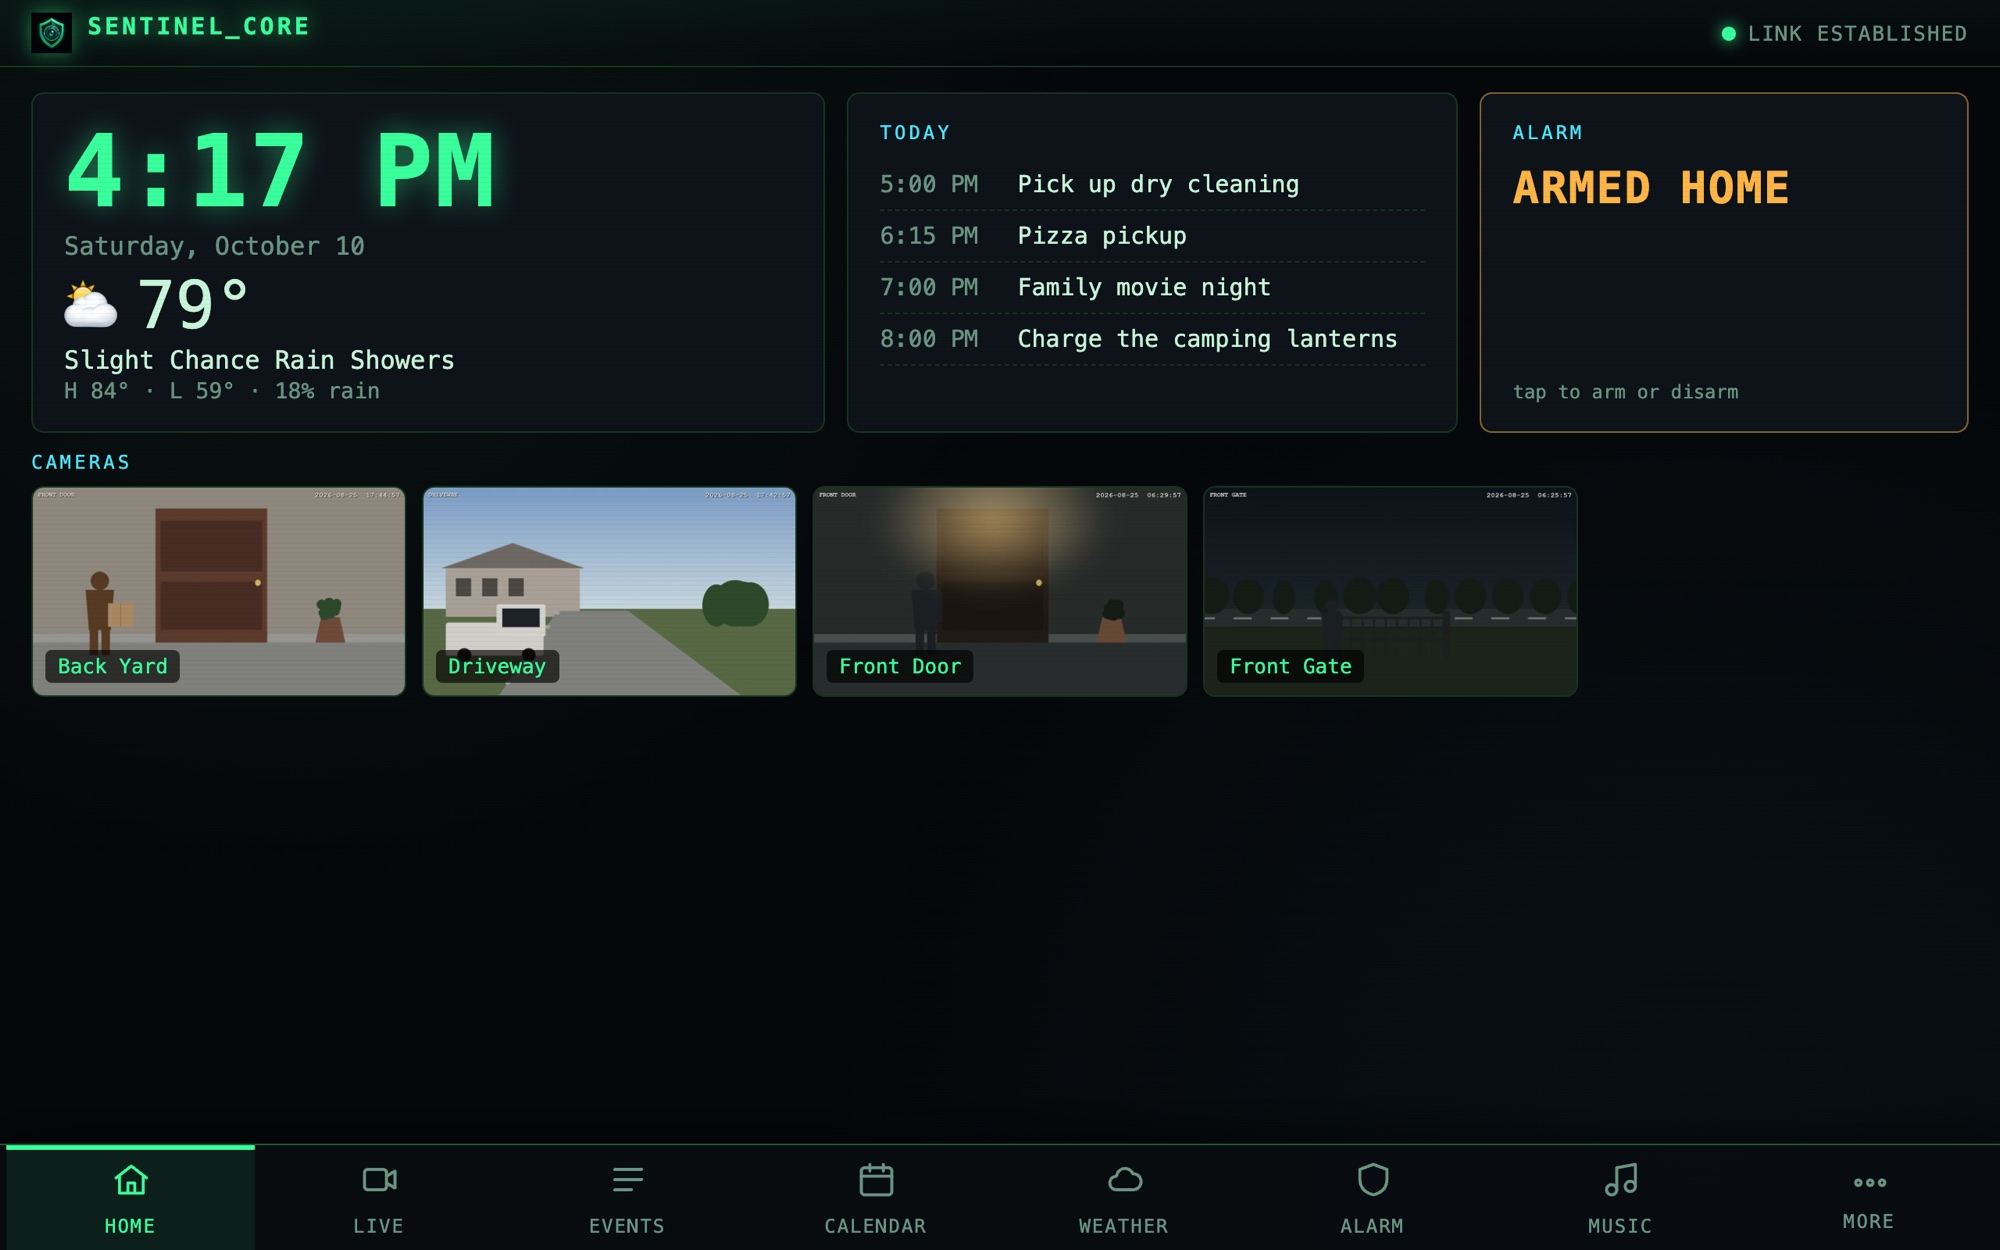
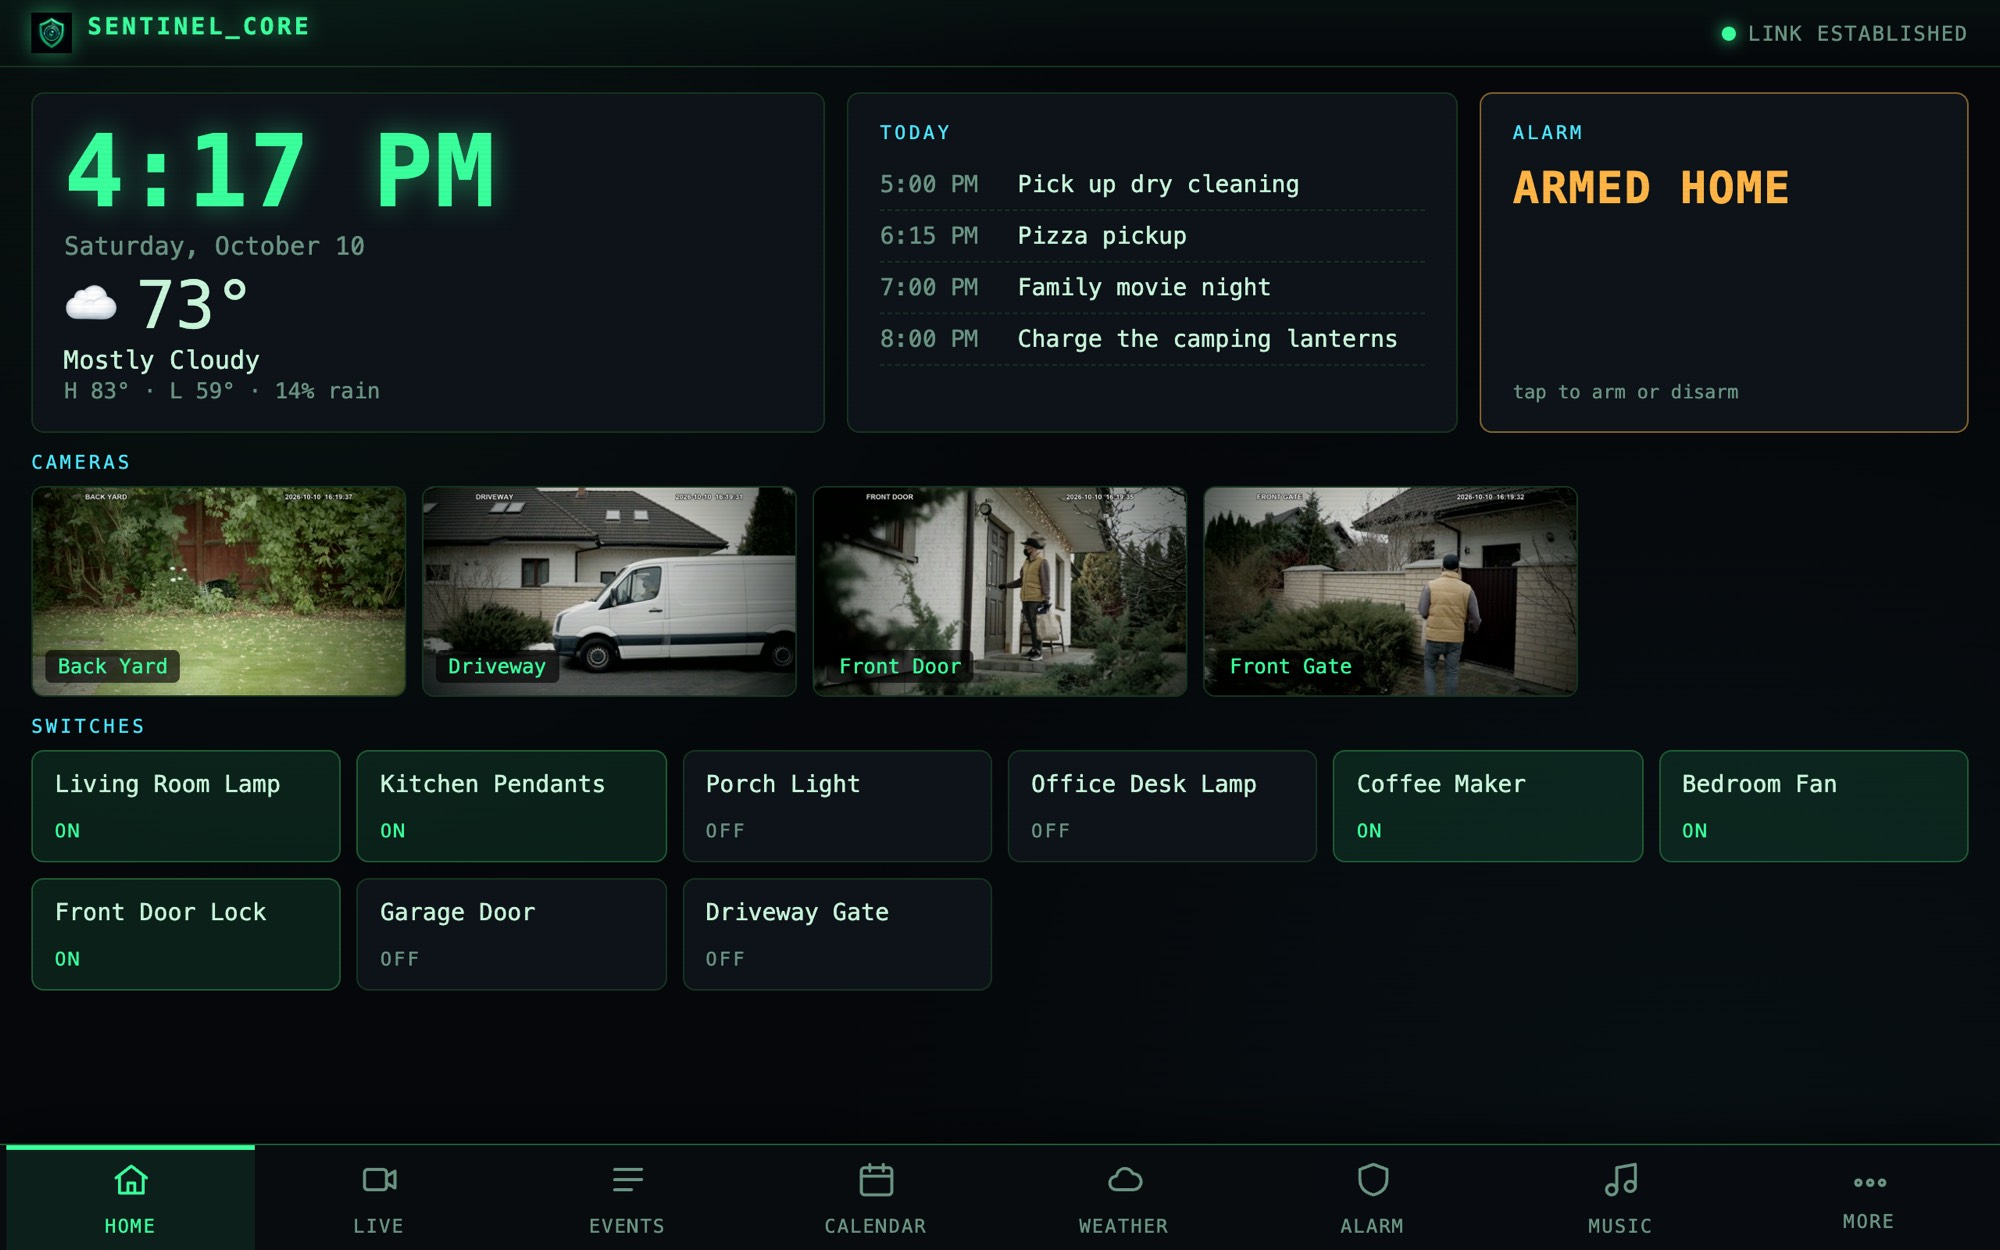
README: real-looking camera footage in the screenshots
Replace the cartoon camera art in the hero, events, live, timeline, kiosk
and iPhone camera shots with frames from free Pexels stock videos, graded
to look like security-camera footage with a burned-in camera name and
clock. The demo event descriptions were rewritten to match what the new
pictures show. Sources are listed in docs/screenshots/CREDITS.md, linked
from the README.

diff --git a/docs/screenshots/CREDITS.md b/docs/screenshots/CREDITS.md
@@ -1,0 +1,19 @@
+# Screenshot credits
+
+The camera images in these screenshots (event snapshots, live tiles, timeline clips) are frames
+from free stock videos on [Pexels](https://www.pexels.com), used under the
+[Pexels License](https://www.pexels.com/license/) (free to use and modify, no attribution
+required; credited here anyway). They were cropped, colour-graded to look like security-camera
+footage, and given a burned-in camera name and clock. None of it comes from a real home camera.
+The people shown are actors in stock footage; the event descriptions are written for the demo.
+
+| Used as | Video | Author |
+|---|---|---|
+| Front Door (delivery, night event, live tile) | [Delivery Man at Home](https://www.pexels.com/video/delivery-man-at-home-6406115/) | Pavel Danilyuk |
+| Front Door (person walking up the path) | [Man Delivering Pizza](https://www.pexels.com/video/man-delivering-pizza-6406120/) | Pavel Danilyuk |
+| Driveway (van arriving) and Front Gate | [Delivery Man Getting Out of Van](https://www.pexels.com/video/delivery-man-getting-out-of-van-6406169/) | Pavel Danilyuk |
+| Driveway (van parked) | [Delivery Man in a Truck](https://www.pexels.com/video/delivery-man-in-a-trcuk-6406121/) | Pavel Danilyuk |
+| Back Yard | [A Black Cat on the Backyard](https://www.pexels.com/video/a-black-cat-on-the-backyard-9337775/) | Meadow Man of Fire |
+
+Movie posters, album covers and podcast art are invented titles drawn for the demo, not real
+artwork.

diff --git a/README.md b/README.md
@@ -15,7 +15,8 @@ wall-mounted kiosk mode, all talk to the same server.
 ![Sentinel Core on the web dashboard and the iPhone app](docs/screenshots/hero.jpg)
 
 <sub>Every screenshot in this README was taken from a real running server and the real apps,
-filled with demo data: invented cameras, events, family, titles and artists.</sub>
+filled with demo data: invented cameras, events, family, titles and artists. The camera footage
+is free stock video ([credits](docs/screenshots/CREDITS.md)).</sub>
 
 ---
 
